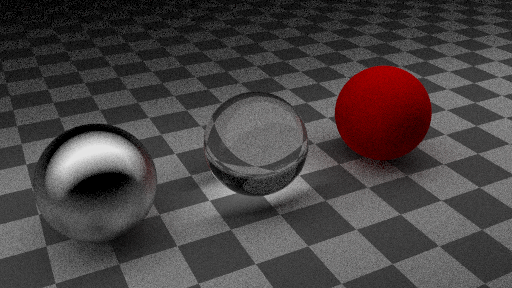
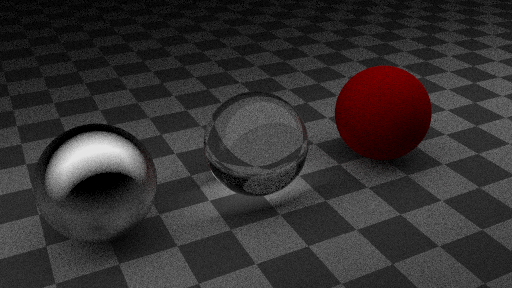
New Cornell box

diff --git a/src/utils.hpp b/src/utils.hpp
@@ -5,28 +5,38 @@
 
 namespace art {
 
-	float Random() {
+	// Generate random number in range [0, 1)
+	inline float Random() {
 		return std::rand() / (RAND_MAX + 1.0);
 	}
 
-	float Random(float min, float max) {
+	inline float Random(float min, float max) {
 		return min + (max - min) * Random();
 	}
 
-	glm::vec2 RandomInSquare() {
-		// Returns the vector to a random point in the [-.5,-.5]-[+.5,+.5] unit square.
+	// Returns random point in the [-0.5, -0.5]-[0.5, 0.5] unit square.
+	inline glm::vec2 RandomInSquare() {
 		return glm::vec2(art::Random() - 0.5, art::Random() - 0.5);
 	}
 
+	// Random value from normal distribution (range is infinite)
+	float RandomNormalDistribution() {
+		float theta = 2 * art::pi * Random();
+		float rho = std::sqrt(-2 * std::log(Random()));
+		return rho * std::cos(theta);
+	}
+
+	// Returns vector to a random point in the stratified region of unit square
 	glm::vec2 RandomInStratifiedSquare(uint32_t s_i, uint32_t s_j, float regionSize) {
-		// Returns the vector to a random point in the stratified region
-		// of unit square
 		return glm::vec2(
 			((s_i + Random()) * regionSize) - 0.5,
 			((s_j + Random()) * regionSize) - 0.5
 		);
 	}
 
+	// Get random unit vector
+	// this funcion uses simple rejection sampling
+	// i tried Gaussian distribution but it was slower
 	glm::vec3 RandomVec() {
 		while (true) {
 			glm::vec3 v = glm::vec3(Random(-1, 1), Random(-1, 1), Random(-1, 1));

diff --git a/src/hittable.hpp b/src/hittable.hpp
@@ -109,7 +109,13 @@ namespace art {
 
 	class Quad : public Hittable {
 	public:
-		Quad(const glm::vec3 &Q, const glm::vec3 &u, const glm::vec3 &v, Material *mat) : m_Q(Q), m_u(u), m_v(v), m_mat(mat) {
+		Quad(const glm::vec3 &Q, const glm::vec3 &u, const glm::vec3 &v, Material *mat, bool oneSided) : 
+				m_Q(Q),
+				m_u(u), 
+				m_v(v), 
+				m_mat(mat),
+				m_oneSided(oneSided) 
+		{
 			glm::vec3 n = glm::cross(u, v);
 			m_N = glm::normalize(n);
 			m_D = glm::dot(m_N, Q);
@@ -119,8 +125,10 @@ namespace art {
 		bool Hit(const Ray& r, Interval tSpan, HitInfo& hitInfo) const override {
 			float denom = glm::dot(m_N, r.GetDirection());
 
-			// if ray is parallel to plane
-			if (std::fabs(denom) < 1e-8) {
+			// if ray is parallel to plane or opposite side
+			if (denom < 1e-8 && m_oneSided) {
+				return false;
+			} else if (std::fabs(denom) < 1e-8) {
 				return false;
 			}
 
@@ -168,6 +176,7 @@ namespace art {
 		glm::vec3 m_u;
 		glm::vec3 m_v;
 		Material *m_mat;
+		bool      m_oneSided;
 
 		glm::vec3 m_N, m_w;
 		float m_D;

diff --git a/src/scene-parser.hpp b/src/scene-parser.hpp
@@ -142,7 +142,8 @@ namespace art {
 					object["q"].as<glm::vec3>(),
 					object["u"].as<glm::vec3>(),
 					object["v"].as<glm::vec3>(),
-					ParseMaterial(object["material"].as<std::string>())
+					ParseMaterial(object["material"].as<std::string>()),
+					object["one side"] ? object["one side"].as<bool>() : false
 				);
 			} else {
 				std::cerr << "incorrect object type - " << object["type"].as<std::string>() << "\n";
@@ -157,7 +158,6 @@ namespace art {
 
 			// check if material with that name already in map
 			if (m_materials.find(materialName) != m_materials.end()) {
-				std::cout << "material" << materialName << "already exists\n";
 				return m_materials[materialName];
 			}
 
@@ -234,7 +234,6 @@ namespace art {
 
 			// check if material with that name already in map
 			if (m_textures.find(textureName) != m_textures.end()) {
-				std::cout << "texture" << textureName << "already exists\n";
 				return m_textures[textureName];
 			}
 

diff --git a/src/material.hpp b/src/material.hpp
@@ -32,7 +32,7 @@ namespace art {
 			m_textureAlbedo(albedo) {}
 
 		bool Scatter(const Ray &rayIn, const HitInfo &hitInfo, glm::vec3 &attenuation, Ray &rayOut) const override {
-			glm::vec3 scatterDir = hitInfo.N + RandomVec();
+			glm::vec3 scatterDir = glm::normalize(hitInfo.N + RandomVec());
 
 			if (VecNearZero(scatterDir)) {
 				scatterDir = hitInfo.N;
